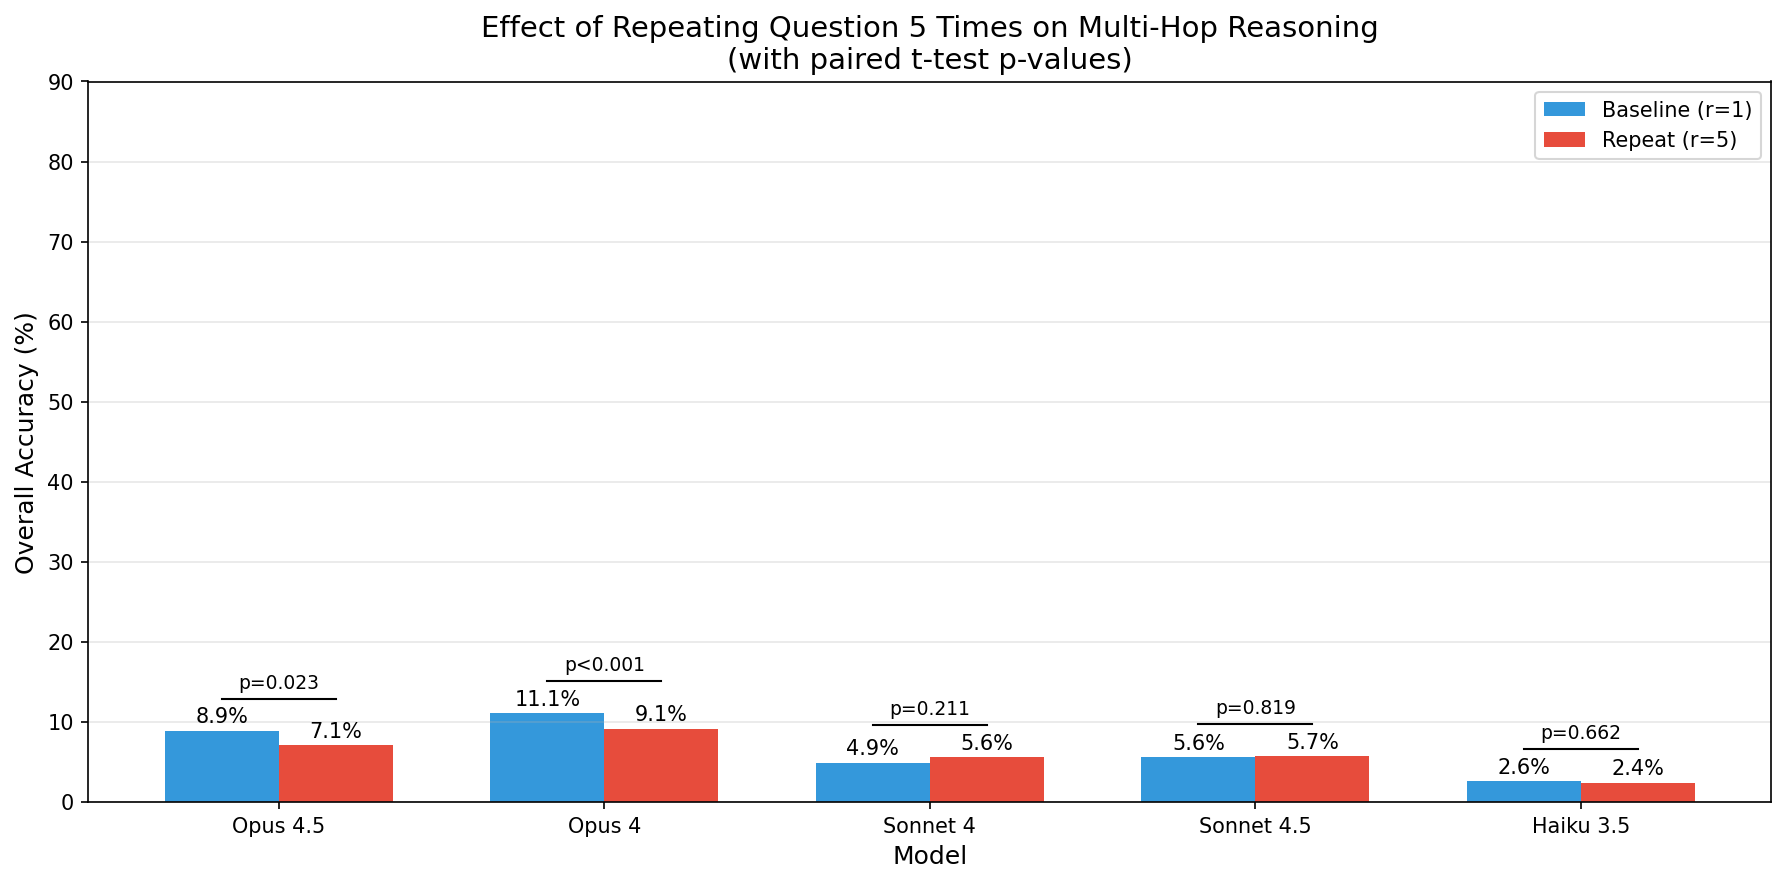
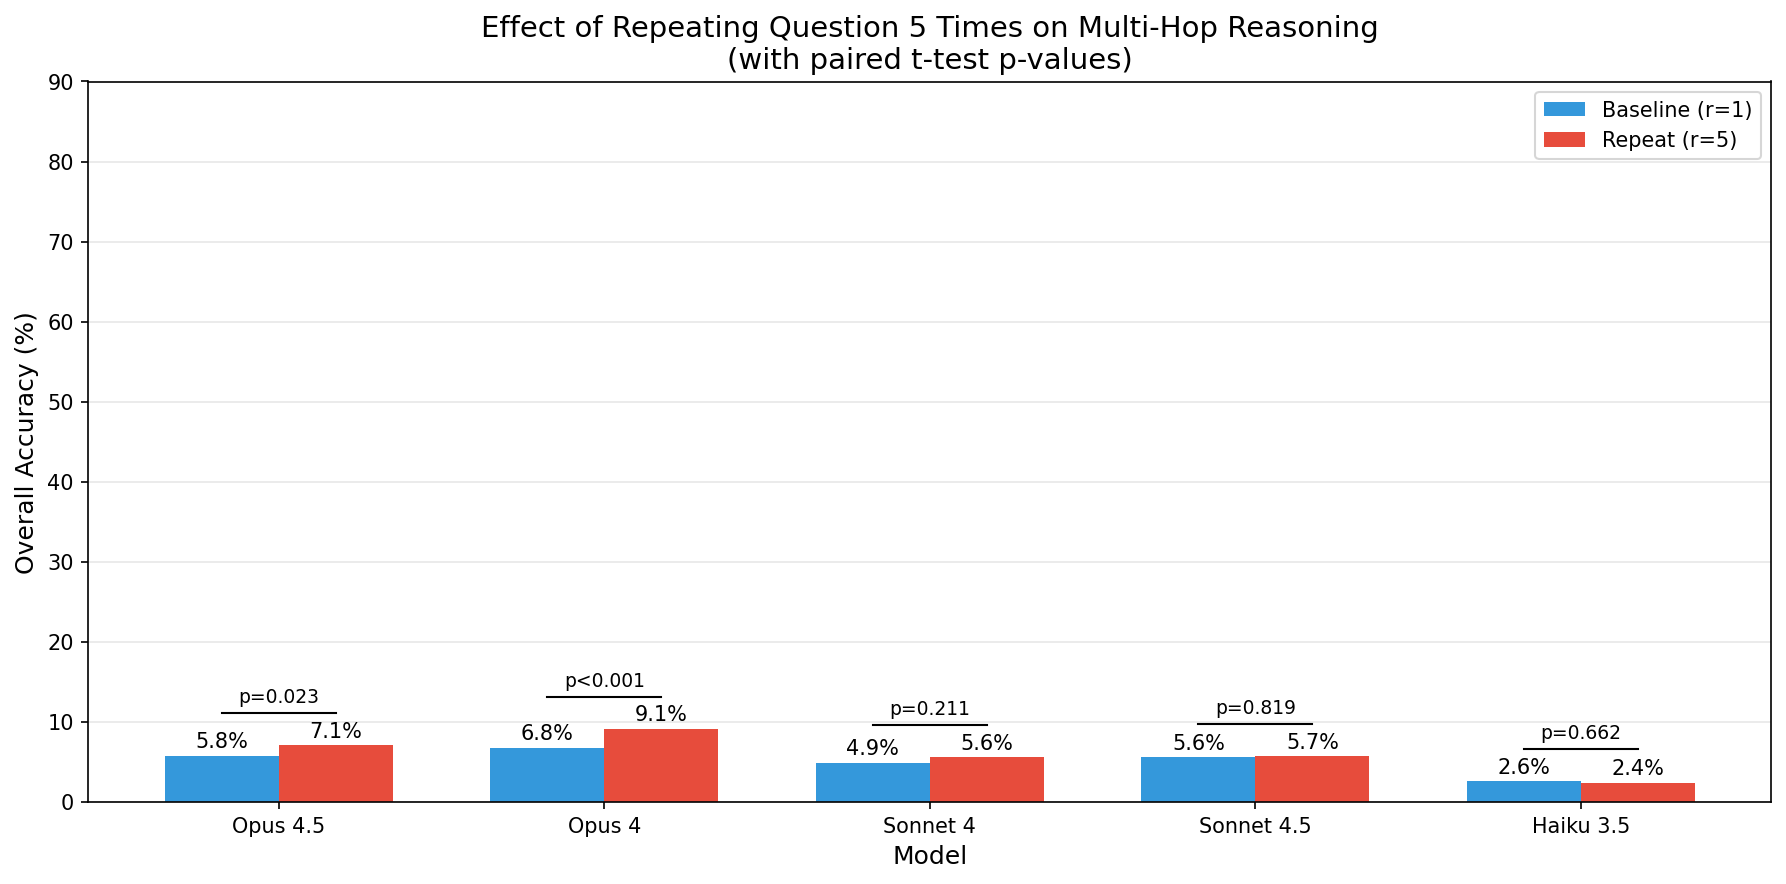
bug fix

Changed region(s): [[0.2772, 0.733, 0.3695, 0.8552], [0.0924, 0.7636, 0.1848, 0.8552]]

diff --git a/analyze_results.py b/analyze_results.py
@@ -120,6 +120,8 @@ def extract_data():
     for r in results:
         model = MODEL_NAMES.get(r.get("model"), r.get("model"))
         repeat = r.get("repeat")
+        if r.get("filler") is not None:
+            continue
 
         if model not in data_by_model:
             data_by_model[model] = {}
@@ -615,6 +617,8 @@ def get_model_r_values(model_key):
     for r in results:
         if r.get("model") == model_full_name:
             repeat = r.get("repeat")
+            if r.get("filler") is not None:
+                continue
             r_val = 1 if repeat is None else repeat
             r_values.append(r_val)
     return sorted(set(r_values))
